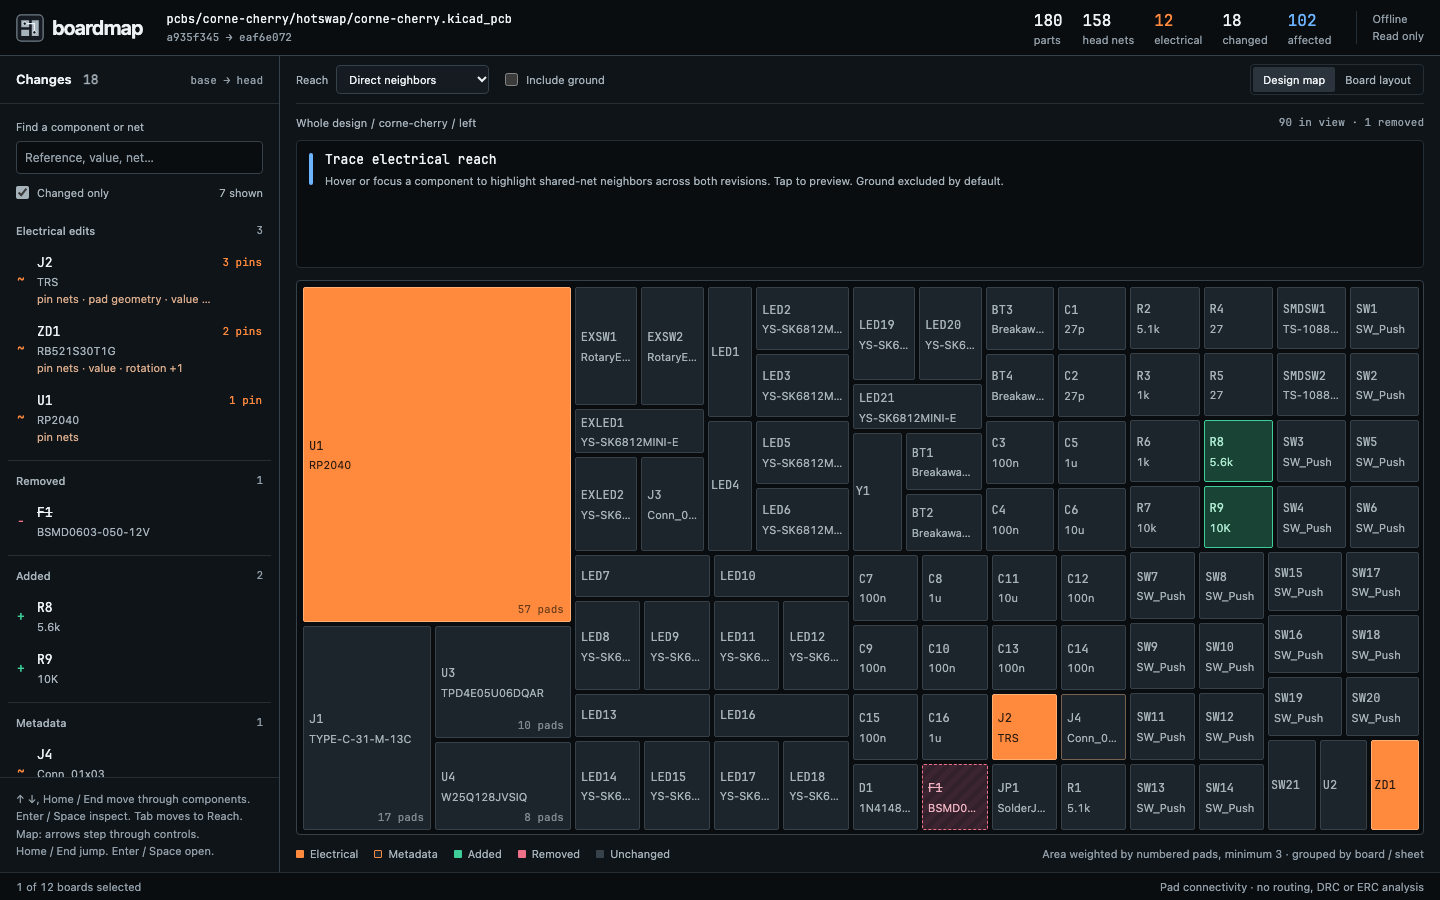
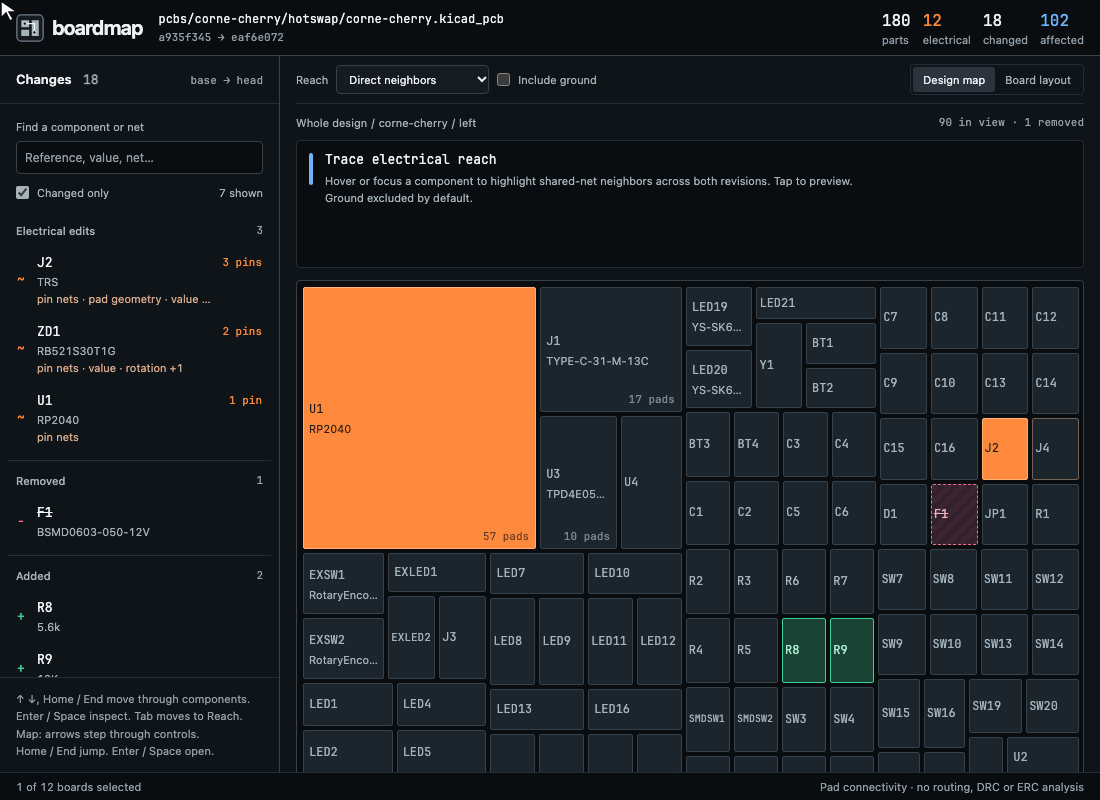
Record readable sheets, visible return and a legible pointer demo

diff --git a/docs/media/continuity/README.md b/docs/media/continuity/README.md
@@ -1,0 +1,56 @@
+# Readable sheets and visible return selection
+
+These are actual Chromium captures of the pinned HackRF and Corne comparisons. No fixture data replaces the designs. The changes preserve graph semantics, rail loads and report counts.
+
+| Capture | Viewport | State |
+| --- | --- | --- |
+| `hackrf/returned-part.png`, `corne/returned-part.png` | 1440 × 900 | Following a named neighbor and clicking Back leaves that component outlined and named in the readout. |
+| `hackrf/readable-sheet.png`, `corne/readable-sheet.png` | 1280 × 800 | Scrolled sheet regions with complete references, including the HackRF capacitors that were unnamed at this size. |
+| `hackrf/readable-root.png`, `corne/readable-root.png` | 1280 × 800 | Root-sheet references remain readable; the breadcrumb uses the same Root sheet name as the overview. |
+| `hackrf/touch-return.png`, `corne/touch-return.png` | 390 × 844 | Touch Back restores the marked part, readout and original viewport position. |
+| `hackrf/touch-root.png`, `corne/touch-root.png` | 390 × 844 | Long root-sheet references fit without reducing type below 9px. |
+| `corne/board-neighbor-return.png` | 1440 × 1000 | Both populated boards loaded unchanged. Following a neighbor chooses its board, and Back visibly marks that neighbor. |
+
+## Reproduce
+
+Use Node 22+, `npm ci`, and Playwright Chromium. An existing browser can be selected with `BOARDMAP_BROWSER`. Set `HACKRF_CACHE` and `CORNE_CACHE` to local git caches containing the pinned objects, or fetch them with `scripts/demo.mjs` and stop its server before capturing.
+
+```sh
+npm test
+npm run test:e2e -- --base HEAD --head HEAD
+npm run test:e2e -- --fixture
+npm run test:e2e -- --fixture --removed
+npm run test:e2e -- --repo "$HACKRF_CACHE" \
+  --base f6598e7b14b7ec539126479e9c6d095c668a534e \
+  --head 3bdc5547004c8244de5f37104410c363854e5634 \
+  --out docs/media/continuity/hackrf --continuity
+npm run test:e2e -- --repo "$CORNE_CACHE" \
+  --base a935f345c5e824aeaaa8f624ae2134fae47e128e \
+  --head eaf6e072fe273c2cfd64690de135ddb7ffe870f9 \
+  --board pcbs/corne-cherry/hotswap/corne-cherry.kicad_pcb \
+  --out docs/media/continuity/corne --continuity
+npm run test:e2e -- --repo "$CORNE_CACHE" \
+  --base eaf6e072fe273c2cfd64690de135ddb7ffe870f9 \
+  --head eaf6e072fe273c2cfd64690de135ddb7ffe870f9 \
+  --out /tmp/boardmap-return-current --continuity
+cp /tmp/boardmap-return-current/board-neighbor-return.png docs/media/continuity/corne/
+npm run test:e2e -- --repo "$HACKRF_CACHE" \
+  --base f6598e7b14b7ec539126479e9c6d095c668a534e \
+  --head 3bdc5547004c8244de5f37104410c363854e5634 \
+  --board hardware/LNA915/LNA915.kicad_pcb
+node scripts/capture-demo.mjs "$CORNE_CACHE" --gif
+```
+
+`--continuity` limits captures to these states. The hero GIF and four frames under `../instrument/` are refreshed from the same running UI. All browsers and ephemeral servers close after each run.
+
+## Observed checks
+
+All 42 unit tests and seven browser commands pass without browser errors. The sheet-sizing helper keeps its viewport floor, honors measured reference fit, and retains 32px minimum touch targets. A column remains the finite growth bound. The two-part `[100, 3]` compactness regression still passes.
+
+The browser checks every valid reference in every drilled HackRF and Corne cherry sheet at 1440 × 900, 1280 × 800, 1024 × 720 and 390 × 844. It requires a complete label at 9px or larger, inside the tile bounds. Desktop sheets scroll inside the workspace. Phone sheets retain document scrolling and the sticky readout. Opening and closing an inspector restores the map dimensions and scroll position when the viewport width is unchanged, and identifies the returned component for mouse, keyboard and touch.
+
+The slow-pointer reproduction originally lost U23 on five of nine accelerated paths to the remaining-net list at 1024 × 720. After the fix, all nine preserve U23. The committed browser regression uses a 1.3-second path, waits in the map/readout gap, and then verifies that resting on U24 retargets. Moving more than four pixels restarts the intent timer; the gap belongs to the same instrument area. Keyboard and touch remain immediate.
+
+An offline install of the packed tarball starts the real CLI, loads 469 HackRF components, and opens the 136-component sheet with every reference present. Every observed browser request stays on loopback. The package contains 18 files, no bundled runtime dependencies, and no screenshots or fixtures.
+
+The source designs retain their upstream licenses. See the root README and `test/fixtures/README.md`. Local pad regions remain approximate, and the supplementary board view still shows footprint centers rather than copper routing.

diff --git a/docs/media/instrument/README.md b/docs/media/instrument/README.md
@@ -1,6 +1,6 @@
 # Instrument UI captures
 
-Actual Chromium captures of the pinned real-board comparisons. Each run starts an ephemeral loopback server and closes it afterward. No fixture data replaces the boards in these images.
+These gallery captures record the earlier instrument revision. The hero GIF and `demo-frames/` are refreshed with the current UI; the latest drilled-sheet and visible-return captures are in [continuity](../continuity/README.md). Each run starts an ephemeral loopback server and closes it afterward. No fixture data replaces the boards in these images.
 
 | Capture                                           | Viewport | State                                                                    |
 | ------------------------------------------------- | -------- | ------------------------------------------------------------------------ |
@@ -52,7 +52,7 @@ The synthetic drill assertion opens the geometry disclosure, checks pad 2's 0.8 
 
 ## Demo and package
 
-`demo-frames/` contains four actual 1440×900 ZD1 review states. `boardmap-demo.gif` holds them for 1.2, 1.2, 2.8 and 2.8 seconds. FFprobe reports 8.000 seconds, 80 frames and 1100×688 pixels. FFmpeg is needed only to rebuild the GIF.
+`demo-frames/` contains four actual 1100×800 ZD1 review states. The recording cursor follows real pointer events; it is not part of the application. `boardmap-demo.gif` holds the states for 1.2, 1.2, 2.8 and 2.8 seconds. FFprobe reports 8.000 seconds, 80 frames and 1100×800 pixels. FFmpeg is needed only to rebuild the GIF.
 
 An offline install of the packed tarball passed checks for the HTML, app, helper, CSS, shared mark and mono font routes. Arbitrary asset paths returned 404. The package has zero runtime dependencies and excludes this media directory. The bundled font's OFL notice is installed with it.
 
